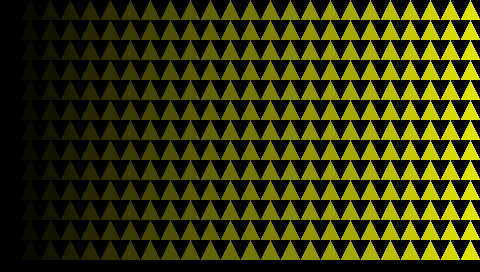
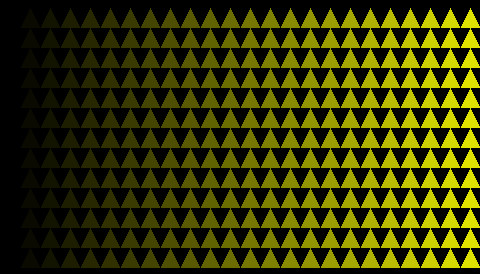
WI17390 Changes following code review - TilingWithImages is now done by copying 1 tile as an image across a whole column instead of redrawing the tile on each line

diff --git a/MicroUI-Get-Started/src/main/java/com/microej/howto/microui/image/TilingWithImages.java b/MicroUI-Get-Started/src/main/java/com/microej/howto/microui/image/TilingWithImages.java
@@ -42,32 +42,35 @@ public class TilingWithImages {
 				g.fillRect(0, 0, DISPLAY_WIDTH, DISPLAY_HEIGHT);
 
 				// Creates a new mutable image to draw the tile.
+				Image squareTile = Image.createImage(TILE_SIZE, TILE_SIZE);
+				//draw one tile
+				{
+					GraphicsContext squareTileGraphicsContext = squareTile.getGraphicsContext();
+					squareTileGraphicsContext.setColor(Colors.BLACK);
+					squareTileGraphicsContext.fillRect(0, 0, squareTile.getWidth(), squareTile.getHeight());
+					squareTileGraphicsContext.setColor(Colors.YELLOW);
+					int xys[] = { 0, TILE_SIZE, TILE_SIZE / 2, 0, TILE_SIZE, TILE_SIZE };
+					squareTileGraphicsContext.fillPolygon(xys);
+				}
+
 				// To leverage CPU usage, we will draw a full column and then
 				// repeat the pattern horizontally.
 				Image squareTileColumn = Image.createImage(TILE_SIZE, TILE_SIZE * nbTilesY);
-
-				GraphicsContext columnGraphicsContext = squareTileColumn.getGraphicsContext();
-				// ensure dark background for tile (images are filled with white pixels by default))
-				columnGraphicsContext.setColor(Colors.BLACK);
-				columnGraphicsContext.fillRect(0, 0, squareTileColumn.getWidth(), squareTileColumn.getHeight());
-
-				// draw a column of tiles.
-				columnGraphicsContext.setColor(Colors.YELLOW);
-				for (int y = 0; y < nbTilesY; y++) {
-					int yOffsetTile = TILE_SIZE * y;
-					// A single triangle-shaped tile
-					int xys[] = { 0, yOffsetTile + TILE_SIZE, TILE_SIZE / 2, yOffsetTile, TILE_SIZE,
-							yOffsetTile + TILE_SIZE };
-					columnGraphicsContext.fillPolygon(xys);
+				{
+					GraphicsContext columnGraphicsContext = squareTileColumn.getGraphicsContext();
+					// ensure dark background for tile (images are filled with white pixels by default))
+	
+					// draw a column of tiles.
+					for (int y = 0; y < nbTilesY; y++) {
+						columnGraphicsContext.drawImage(squareTile,0, y * TILE_SIZE , GraphicsContext.LEFT | GraphicsContext.TOP );
+					}
 				}
 
 				final int alphaIncrement = GraphicsContext.OPAQUE / nbTilesX;
 				int currentAlpha = 0;
 				int yOffsetColumn = (DISPLAY_HEIGHT - squareTileColumn.getHeight()) / 2;
 				for (int x = 0; x < nbTilesX; x++, currentAlpha += alphaIncrement) {
-					g.drawImage(squareTileColumn, x * TILE_SIZE, yOffsetColumn,
-							GraphicsContext.LEFT | GraphicsContext.TOP,
-							currentAlpha);
+					g.drawImage(squareTileColumn, x * TILE_SIZE, yOffsetColumn, GraphicsContext.LEFT | GraphicsContext.TOP, currentAlpha);
 				}
 			}
 
